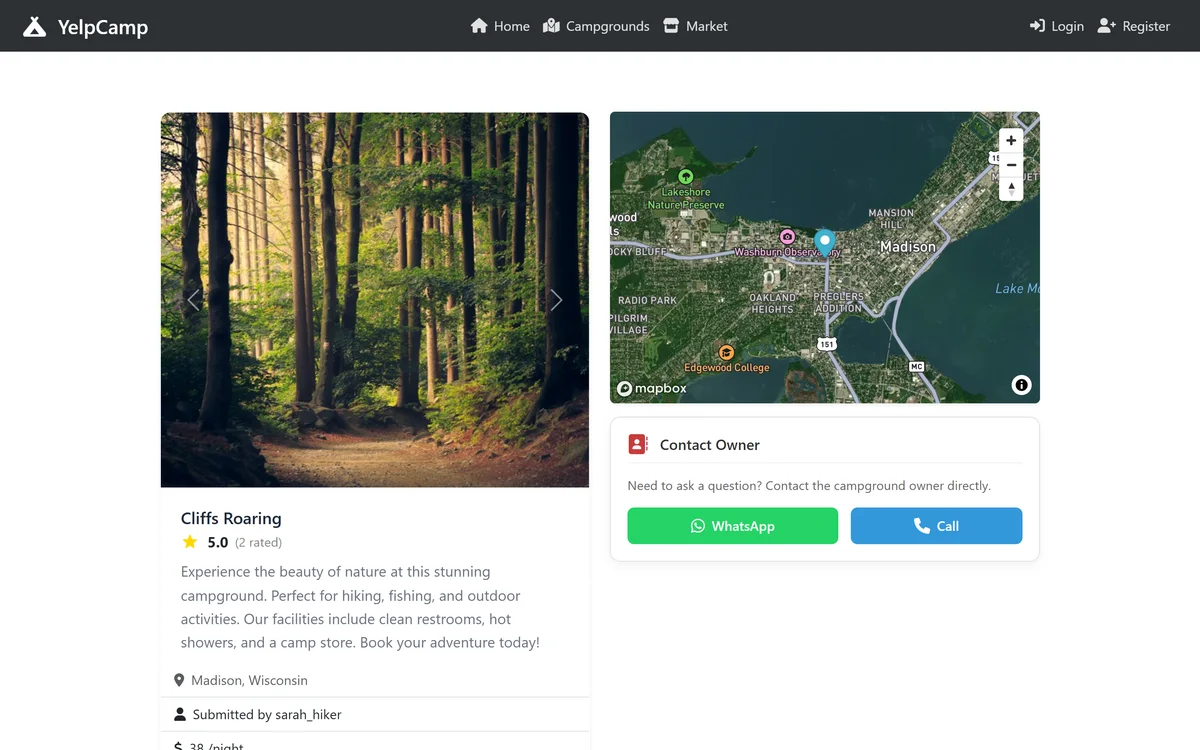
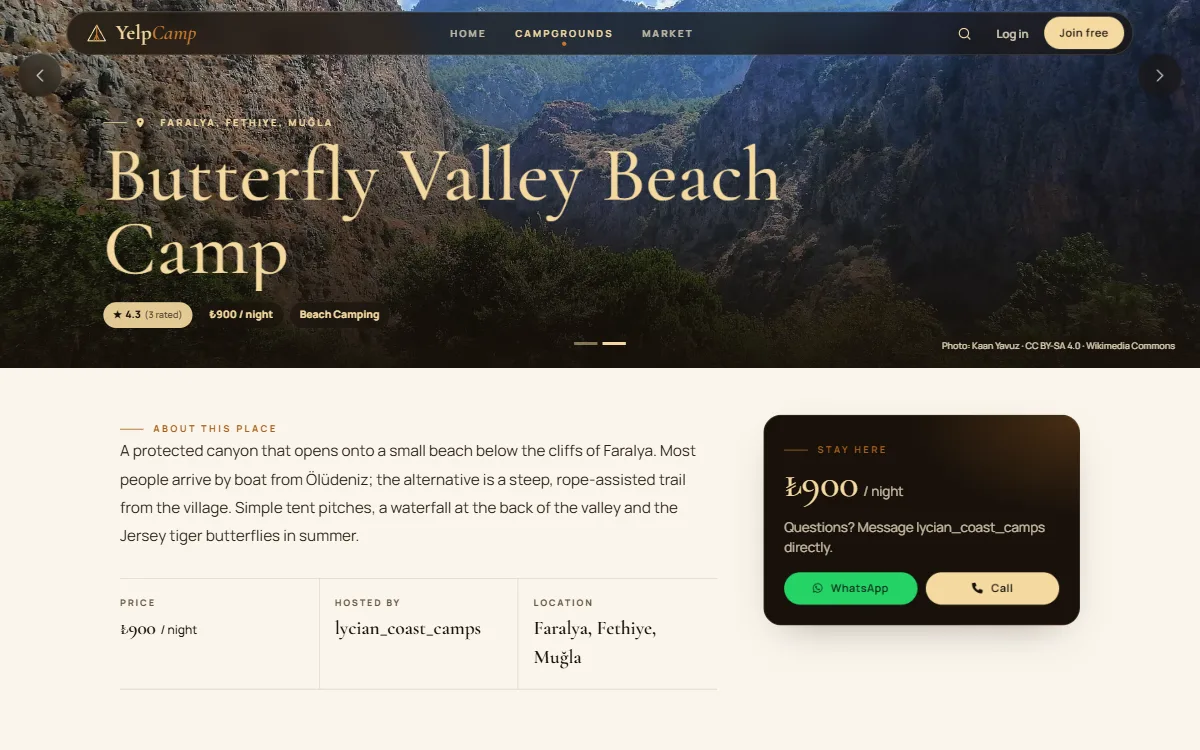
YelpCamp: live link, 2026 redesign screenshots and updated case study

diff --git a/js/data.js b/js/data.js
@@ -223,27 +223,30 @@ window.PROJECTS = [
   },
   {
     title: "YelpCamp",
-    tagline: "Campground platform with maps, accounts, a gear market and payments",
-    cat: ["web"], year: 2025, private: true,
-    summary: "A full-stack platform to discover, share and review campsites — with a 3D map of every campground, user accounts with Google & Facebook login, a camping-gear rental market with Stripe payments, and an admin dashboard.",
-    problem: "Started as the classic Web Developer Bootcamp project — then grown into something closer to a real product: real accounts, maps, uploads, payments and the admin tools to run it.",
-    solution: "An Express + MongoDB app with server-rendered EJS. Campgrounds are geocoded with Mapbox and shown on a 3D globe with clustered markers; photos upload to Cloudinary. Users sign up with email (verification codes, password reset via Nodemailer/SendGrid) or with Google and Facebook through Passport, keep favorites and leave star ratings. A gear market lets campers rent equipment with a basket and Stripe checkout; an hourly cron job moves finished rentals to 'return pending'. Admins get a dashboard for users, orders, market analytics, email usage and upgrade requests. Security is built in: Helmet with a Content Security Policy, MongoDB-injection sanitizing, HTML sanitizing, and sessions stored in MongoDB.",
+    tagline: "Live campsite platform for Turkey: maps, reviews, gear rentals and payments",
+    cat: ["web"], year: 2026, private: true,
+    summary: "A full-stack platform to discover, review and save real campsites across Turkey — with a map of every campground, Google & Facebook sign-in, a camping-gear rental market with Stripe payments, and an admin dashboard. Redesigned in 2026 with a scroll-animated \"campfire\" look and deployed live.",
+    problem: "Started as the classic Web Developer Bootcamp project, then grown into something closer to a real product: real accounts, maps, uploads, payments and the admin tools to run it. In 2026 the old design and hosting were gone, so I rebuilt the look and brought it back online.",
+    solution: "An Express + MongoDB app with server-rendered EJS. Campgrounds are geocoded with Mapbox and shown on a clustered map; photos are served right-sized from Cloudinary. Users sign up with email (verification codes, password reset) or with Google and Facebook through Passport, keep favorites and leave star ratings. A gear market lets campers rent equipment by city with a basket and Stripe checkout; an hourly job moves finished rentals to 'return pending'. Admins get a dashboard for users, orders and analytics. The 2026 redesign added a new design system, GSAP scroll motion and accessible toasts; the data is 38 real Turkish campsites and rental gear with 2026 lira prices. It runs on Render with MongoDB Atlas, and keeps working if a service is missing: it retries the database and switches off only the affected feature. Security: Helmet CSP, query and HTML sanitizing, escaped output, sessions in MongoDB.",
     highlights: [
-      "3D clustered map of all campgrounds (Mapbox)",
+      "Live on Render + MongoDB Atlas, with health checks and automatic database retry",
+      "Map of all campgrounds with clustering (Mapbox)",
       "Accounts: email verification, password reset, Google & Facebook login",
-      "Gear rental market with basket and Stripe payments",
-      "Admin dashboard: users, orders, analytics, email usage",
-      "Image uploads to Cloudinary, favorites and star ratings",
-      "Hardened: Helmet CSP, Mongo sanitizing, HTML sanitizing",
+      "Gear rental market by city with basket and Stripe payments",
+      "2026 redesign: design system, GSAP scroll motion, mobile-first",
+      "38 real Turkish campsites with credited, freely-licensed photos",
+      "Hardened: Helmet CSP, Mongo and HTML sanitizing, XSS fixes",
     ],
-    stack: ["Node.js", "Express", "MongoDB", "Passport", "Mapbox", "Stripe", "Cloudinary", "EJS"],
-    keywords: "yelpcamp yelp camp camping campground campgrounds campsite reviews map maps mapbox stripe payment market rental admin dashboard login oauth google facebook full-stack fullstack website bootcamp to-do todo",
+    stack: ["Node.js", "Express", "MongoDB", "Passport", "Mapbox", "Stripe", "Cloudinary", "EJS", "GSAP", "Render"],
+    keywords: "yelpcamp yelp camp camping campground campgrounds campsite turkey türkiye kamp reviews map maps mapbox stripe payment market rental admin dashboard login oauth google facebook full-stack fullstack website gsap render deploy bootcamp",
     // code link hidden on the site for now
-    links: { live: "", code: "" },
-    image: "assets/img/projects/yelpcamp.webp", // real screenshots (run locally)
+    links: { live: "https://yelpcamp-omar.onrender.com", code: "" },
+    liveNote: "Free hosting: the first visit can take about 30 seconds while the server wakes up.",
+    image: "assets/img/projects/yelpcamp.webp", // screenshots of the live site (Nov 2026)
     gallery: [
-      { src: "assets/img/projects/yelpcamp-map.webp", caption: "3D globe with clustered campgrounds" },
-      { src: "assets/img/projects/yelpcamp-campground.webp", caption: "Campground page: photos, rating, satellite map, contact owner" },
+      { src: "assets/img/projects/yelpcamp-cards.webp", caption: "Real campsites across Turkey, priced in lira" },
+      { src: "assets/img/projects/yelpcamp-campground.webp", caption: "Campground page: photo hero, details and contact the host" },
+      { src: "assets/img/projects/yelpcamp-map.webp", caption: "Clustered map of every campground" },
     ],
     cover: { kind: "camp", hue: 30 },
   },

diff --git a/index.html b/index.html
@@ -16,9 +16,9 @@
   <meta name="referrer" content="strict-origin-when-cross-origin">
 
   <link rel="icon" href="assets/favicon.svg" type="image/svg+xml">
-  <link rel="stylesheet" href="css/fonts.css?v=20261109c">
+  <link rel="stylesheet" href="css/fonts.css?v=20261110a">
   <link rel="stylesheet" href="Font-Awesome-6.x/css/all.min.css">
-  <link rel="stylesheet" href="css/main.css?v=20261109c">
+  <link rel="stylesheet" href="css/main.css?v=20261110a">
 </head>
 
 <body>
@@ -232,12 +232,12 @@
     <div id="modal-content"></div>
   </dialog>
 
-  <script src="js/safe.js?v=20261109c"></script>
-  <script src="js/data.js?v=20261109c"></script>
-  <script src="js/portrait-data.js?v=20261109c"></script>
-  <script src="js/hero.js?v=20261109c"></script>
-  <script src="js/main.js?v=20261109c"></script>
-  <script src="js/ask.js?v=20261109c"></script>
+  <script src="js/safe.js?v=20261110a"></script>
+  <script src="js/data.js?v=20261110a"></script>
+  <script src="js/portrait-data.js?v=20261110a"></script>
+  <script src="js/hero.js?v=20261110a"></script>
+  <script src="js/main.js?v=20261110a"></script>
+  <script src="js/ask.js?v=20261110a"></script>
 </body>
 
 </html>

diff --git a/js/main.js b/js/main.js
@@ -328,7 +328,7 @@
           `<figure><img src="${esc(safeUrl(g.src))}" alt="${esc(g.caption || "")}" loading="lazy"><figcaption>${esc(g.caption || "")}</figcaption></figure>`).join("")}</div>` : ""}
         <h4>Stack</h4>
         <ul class="tags">${p.stack.map((s) => `<li>${esc(s)}</li>`).join("")}</ul>
-        <div class="modal-links">${link(p.links?.live, "Live demo", "fa-solid fa-arrow-up-right-from-square")}${link(p.links?.code, "Source code", "fa-brands fa-github")}${p.private ? `<span class="private-note"><i class="fa-solid fa-lock"></i> Source code is private — happy to walk through it in an interview.</span>` : ""}</div>
+        <div class="modal-links">${link(p.links?.live, "Live demo", "fa-solid fa-arrow-up-right-from-square")}${link(p.links?.code, "Source code", "fa-brands fa-github")}${p.liveNote && safeUrl(p.links?.live) ? `<span class="private-note"><i class="fa-solid fa-hourglass-half"></i> ${esc(p.liveNote)}</span>` : ""}${p.private ? `<span class="private-note"><i class="fa-solid fa-lock"></i> Source code is private — happy to walk through it in an interview.</span>` : ""}</div>
       </div>`;
     vars(modalContent);
     modal.showModal();
